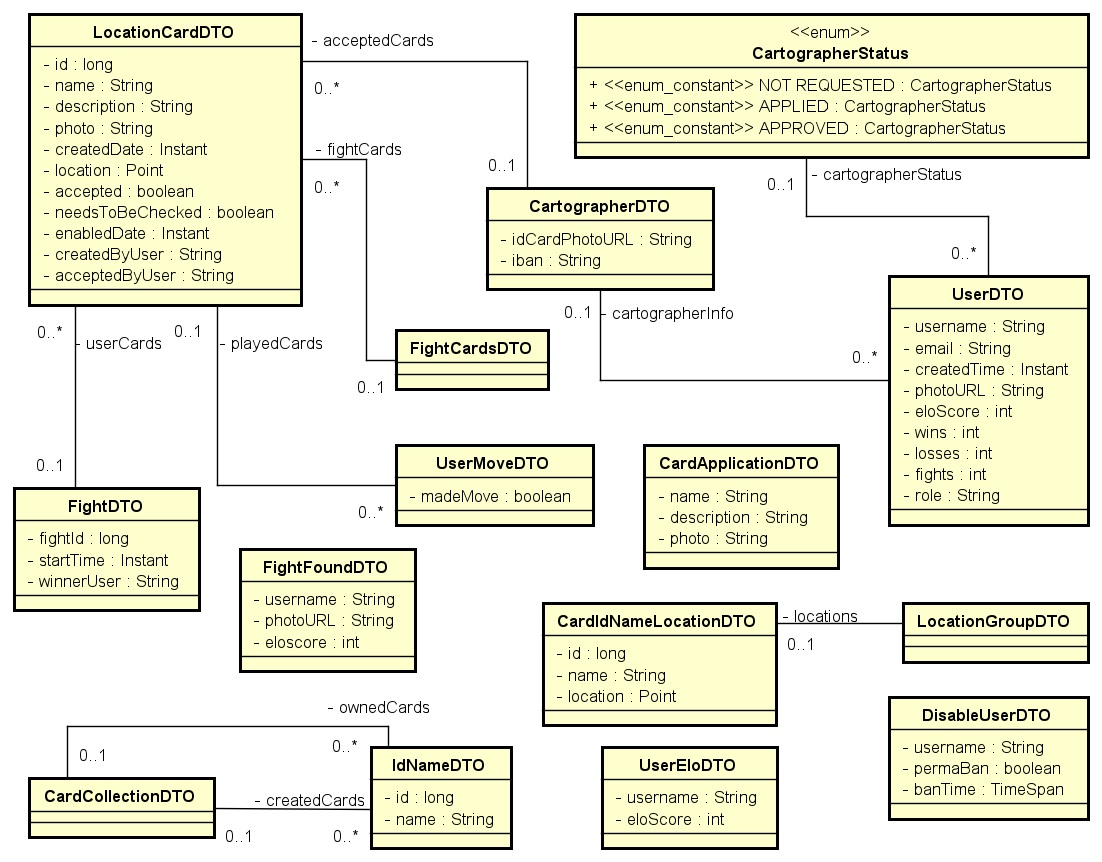
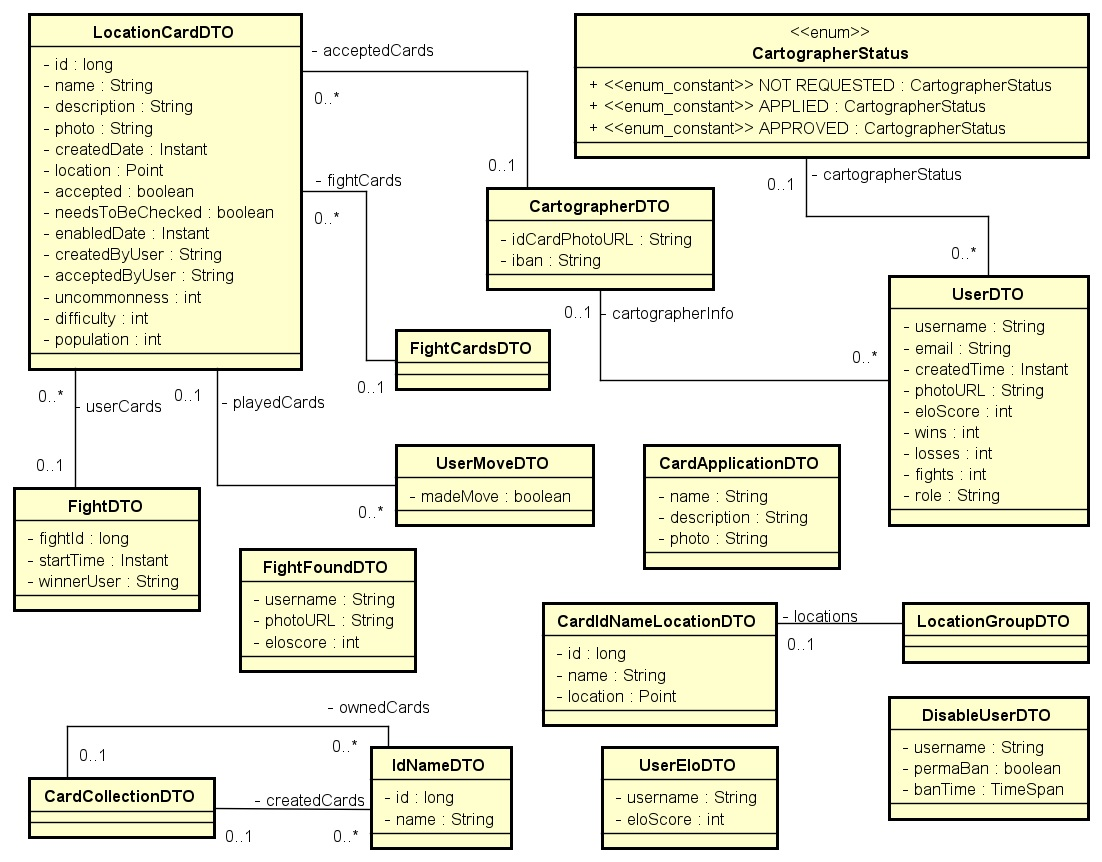
Dorada kartice lokacije.

Changed region(s): [[0.0, 0.3318, 0.2777, 0.4826], [0.2777, 0.0302, 0.4936, 0.1206], [0.2777, 0.1508, 0.3702, 0.2413]]

diff --git a/dokumentacija/Arhitektura.tex b/dokumentacija/Arhitektura.tex
@@ -206,7 +206,7 @@
 		
 			\textnormal{}
 		
-			\textnormal{\textbf{Location\textunderscore cards} \quad Ovaj entitet sadržava sve važne informacije o karticama lokacije. Atributi koje posjeduje su navedeni u tablici. U vezi je \textit{Many-to-Many-to-Many} s entitetima Fights i Users preko spojne tablice User\textunderscore card\textunderscore fight. Također je u vezi \textit{Many-to-One} s entitetom Users preko atributa accepted\textunderscore by\textunderscore user \textunderscore id i atributa created\textunderscore by\textunderscore user \textunderscore id.} \\
+			\textnormal{\textbf{Location\textunderscore cards} \quad Ovaj entitet sadržava sve važne informacije o karticama lokacije. Atributi koje posjeduje su navedeni u tablici. Važno je istaknuti atribute uncommonness, difficulty i population. Oni će određivati jačinu kartice tijekom borbe. Njihovim izborom postignuta je ravnoteža pri dodjeljivanju jačine kartice jer će lokacije koje su teže dostupne obično imati manju naseljenost. U vezi je \textit{Many-to-Many-to-Many} s entitetima Fights i Users preko spojne tablice User\textunderscore card\textunderscore fight. Također je u vezi \textit{Many-to-One} s entitetom Users preko atributa accepted\textunderscore by\textunderscore user \textunderscore id i atributa created\textunderscore by\textunderscore user \textunderscore id.} \\
 		
 			\begin{longtabu} to \textwidth {|X[6, 4]|X[6, l]|X[20, l]|}
 				
@@ -228,6 +228,9 @@
 				location & BYTEA & stvarna lokacija koju označava kartica lokacije \\ \hline
 				check\textunderscore needed & BOOLEAN & zastavica koja označava potrebu za dodatnom potvrdom kartice lokacije \\ \hline
 				photo & VARCHAR & digitalni zapis fotografije lokacije \\ \hline
+				uncommonness & INT & atribut koji označava rijetkost kartice \\ \hline
+				difficulty & INT & atribut koji označava težinu dostupnosti lokacije \\ \hline
+				population & INT & atribut koji označava naseljenost lokacije \\ \hline
 				\textit{accepted\textunderscore by\textunderscore user \textunderscore id} & INT8 & jedinstveni identifikator kartografa koji je odobrio karticu lokacije (users.user\textunderscore id) \\ \hline
 				\textit{created\textunderscore by\textunderscore user \textunderscore id} & INT8 & jedinstveni identifikator igrača koji je prijavio karticu lokacije (users.user\textunderscore id) \\ \hline				
 				
@@ -307,7 +310,7 @@
 								
 				\begin{figure}[H]
 					\centering
-					\includegraphics[scale=0.6]{slike/GeoFighterModel} 
+					\includegraphics[scale=0.55]{slike/GeoFighterModel} 
 					\caption{ER dijagram baze podataka}
 					\label{fig:ERmodel}
 				\end{figure}				
